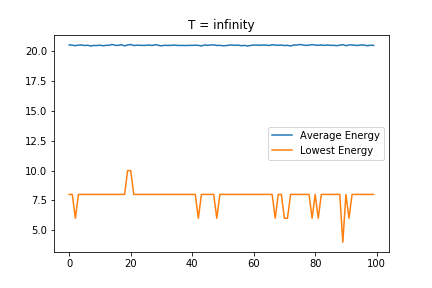
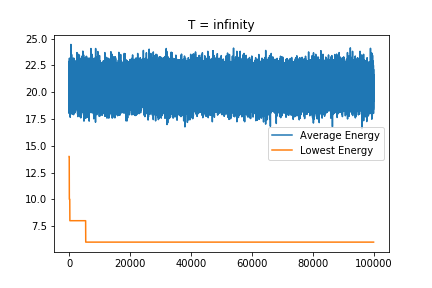
added ensemble support for annealer Fixed parameters

diff --git a/simulated_annealing.py b/simulated_annealing.py
@@ -18,9 +18,9 @@ class Annealer:
     def set_model(self, model):
         self.__model = model
 
-    def run(self,runs_per_temp=1):
+    def run(self,ensemble_size=1):
         """
-        Runs the simulated annealing on the model
+        Runs the simulated annealing on the model. With a given ensemble size.
         :return:
         """
         # Check if all functions/variables are set
@@ -29,24 +29,35 @@ class Annealer:
         if self.__model == 0:
             sys.exit('Annealer: Model not set, use set_model(model)')
 
+        #Create ensemble and choose random initial state for each
+        ensemble = [self.__model]*ensemble_size
+        for k in range(ensemble_size):
+            ensemble[k].shuffle_state()
+
         # Run the simulated annealing method
         energyArr = np.empty(len(self.__temps))
         energyVBSFArr = np.empty(len(self.__temps))
         for i in range(len(self.__temps)):
-            energyVBSFArr[i] = self.__model.get_energy()
-            Etemp = 0
-            for k in range(runs_per_temp):
-                T = self.__temps[i]
-                dE = 0 - self.__model.get_energy()
-                Etemp += np.abs(dE)
+
+            T = self.__temps[i]
+
+            if i == 0:
+                energyVBSFArr[i] = ensemble[0].get_energy()
+            else:
+                energyVBSFArr[i] = energyVBSFArr[i-1]
+
+            e_sum = 0
+            for k in range(ensemble_size):
+                dE = 0 - ensemble[k].get_energy()
+                e_sum += np.abs(dE)
                 if np.abs(dE) < energyVBSFArr[i]:
                     energyVBSFArr[i] = np.abs(dE)
-                self.__model.pair_exchange_random()
-                dE += self.__model.get_energy()
-                # If energy got lower, go to next
+                ensemble[k].pair_exchange_random()
+                dE += ensemble[k].get_energy()
+
+                # Metropolis
                 if dE < 0:
                     continue
-
                 # calculate the boundary for accepting
                 if T == np.inf:
                     p = 1
@@ -58,7 +69,7 @@ class Annealer:
                 # If change not accepted, go back to old model
                 if r > p:
                     self.__model.undo_random_exchange()
-            energyArr[i] = Etemp / runs_per_temp
+            energyArr[i] = e_sum / ensemble_size
         return energyArr,energyVBSFArr
 
 

diff --git a/necklace_model.py b/necklace_model.py
@@ -9,7 +9,7 @@ class Necklace:
     More to come later
     """
 
-    def __init__(self, m, n=2,SEED=42):
+    def __init__(self, m, n=2,SEED=0):
         """
         Initializes the necklace model
         :param m: Number of sites in the ring
@@ -33,7 +33,14 @@ class Necklace:
         self._sites[0:int((m*n)/2)] = np.array([1]*int((m*n)/2))  # set the first elements to class one
 
         # shuffle the array to have random initialization
-        np.random.seed(SEED)
+        if SEED > 0:
+            np.random.seed(SEED)
+        self._sites = np.random.permutation(self._sites)
+
+    def shuffle_state(self):
+        """
+        Shuffles the state of the necklace randomly.
+        """
         self._sites = np.random.permutation(self._sites)
 
     def get_energy(self):
